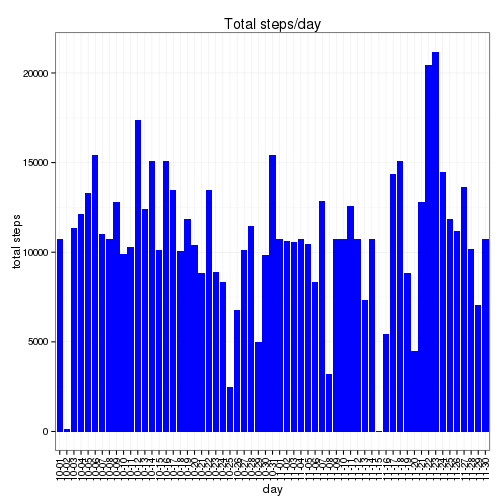
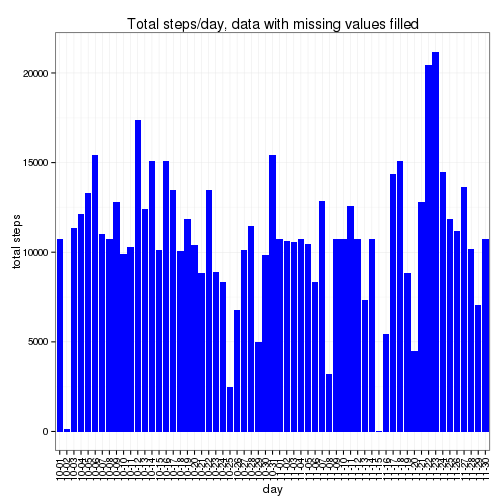
plot title changed

Changed region(s): [[0.2381, 0.0298, 0.8333, 0.0595]]

diff --git a/PA1_template.html b/PA1_template.html
@@ -293,10 +293,10 @@ ggplot(total_steps_2, aes(x=day, y=steps)) +
     scale_x_discrete(labels=substring(total_steps_2$day, 6)) +
     xlab(&quot;day&quot;) +
     ylab(&quot;total steps&quot;) +
-    ggtitle(&quot;Total steps/day&quot;)
+    ggtitle(&quot;Total steps/day, data with missing values filled&quot;)
 </code></pre>
 
[2 lines of base64/hex data omitted]
 
 <p>The code to calculate the mean and median total number of steps taken per day for the new data set:</p>
 

diff --git a/PA1_template.md b/PA1_template.md
@@ -112,7 +112,7 @@ ggplot(total_steps_2, aes(x=day, y=steps)) +
     scale_x_discrete(labels=substring(total_steps_2$day, 6)) +
     xlab("day") +
     ylab("total steps") +
-    ggtitle("Total steps/day")
+    ggtitle("Total steps/day, data with missing values filled")
 ```
 
 ![plot of chunk total_number_of_steps_nonas](figure/total_number_of_steps_nonas.png) 
